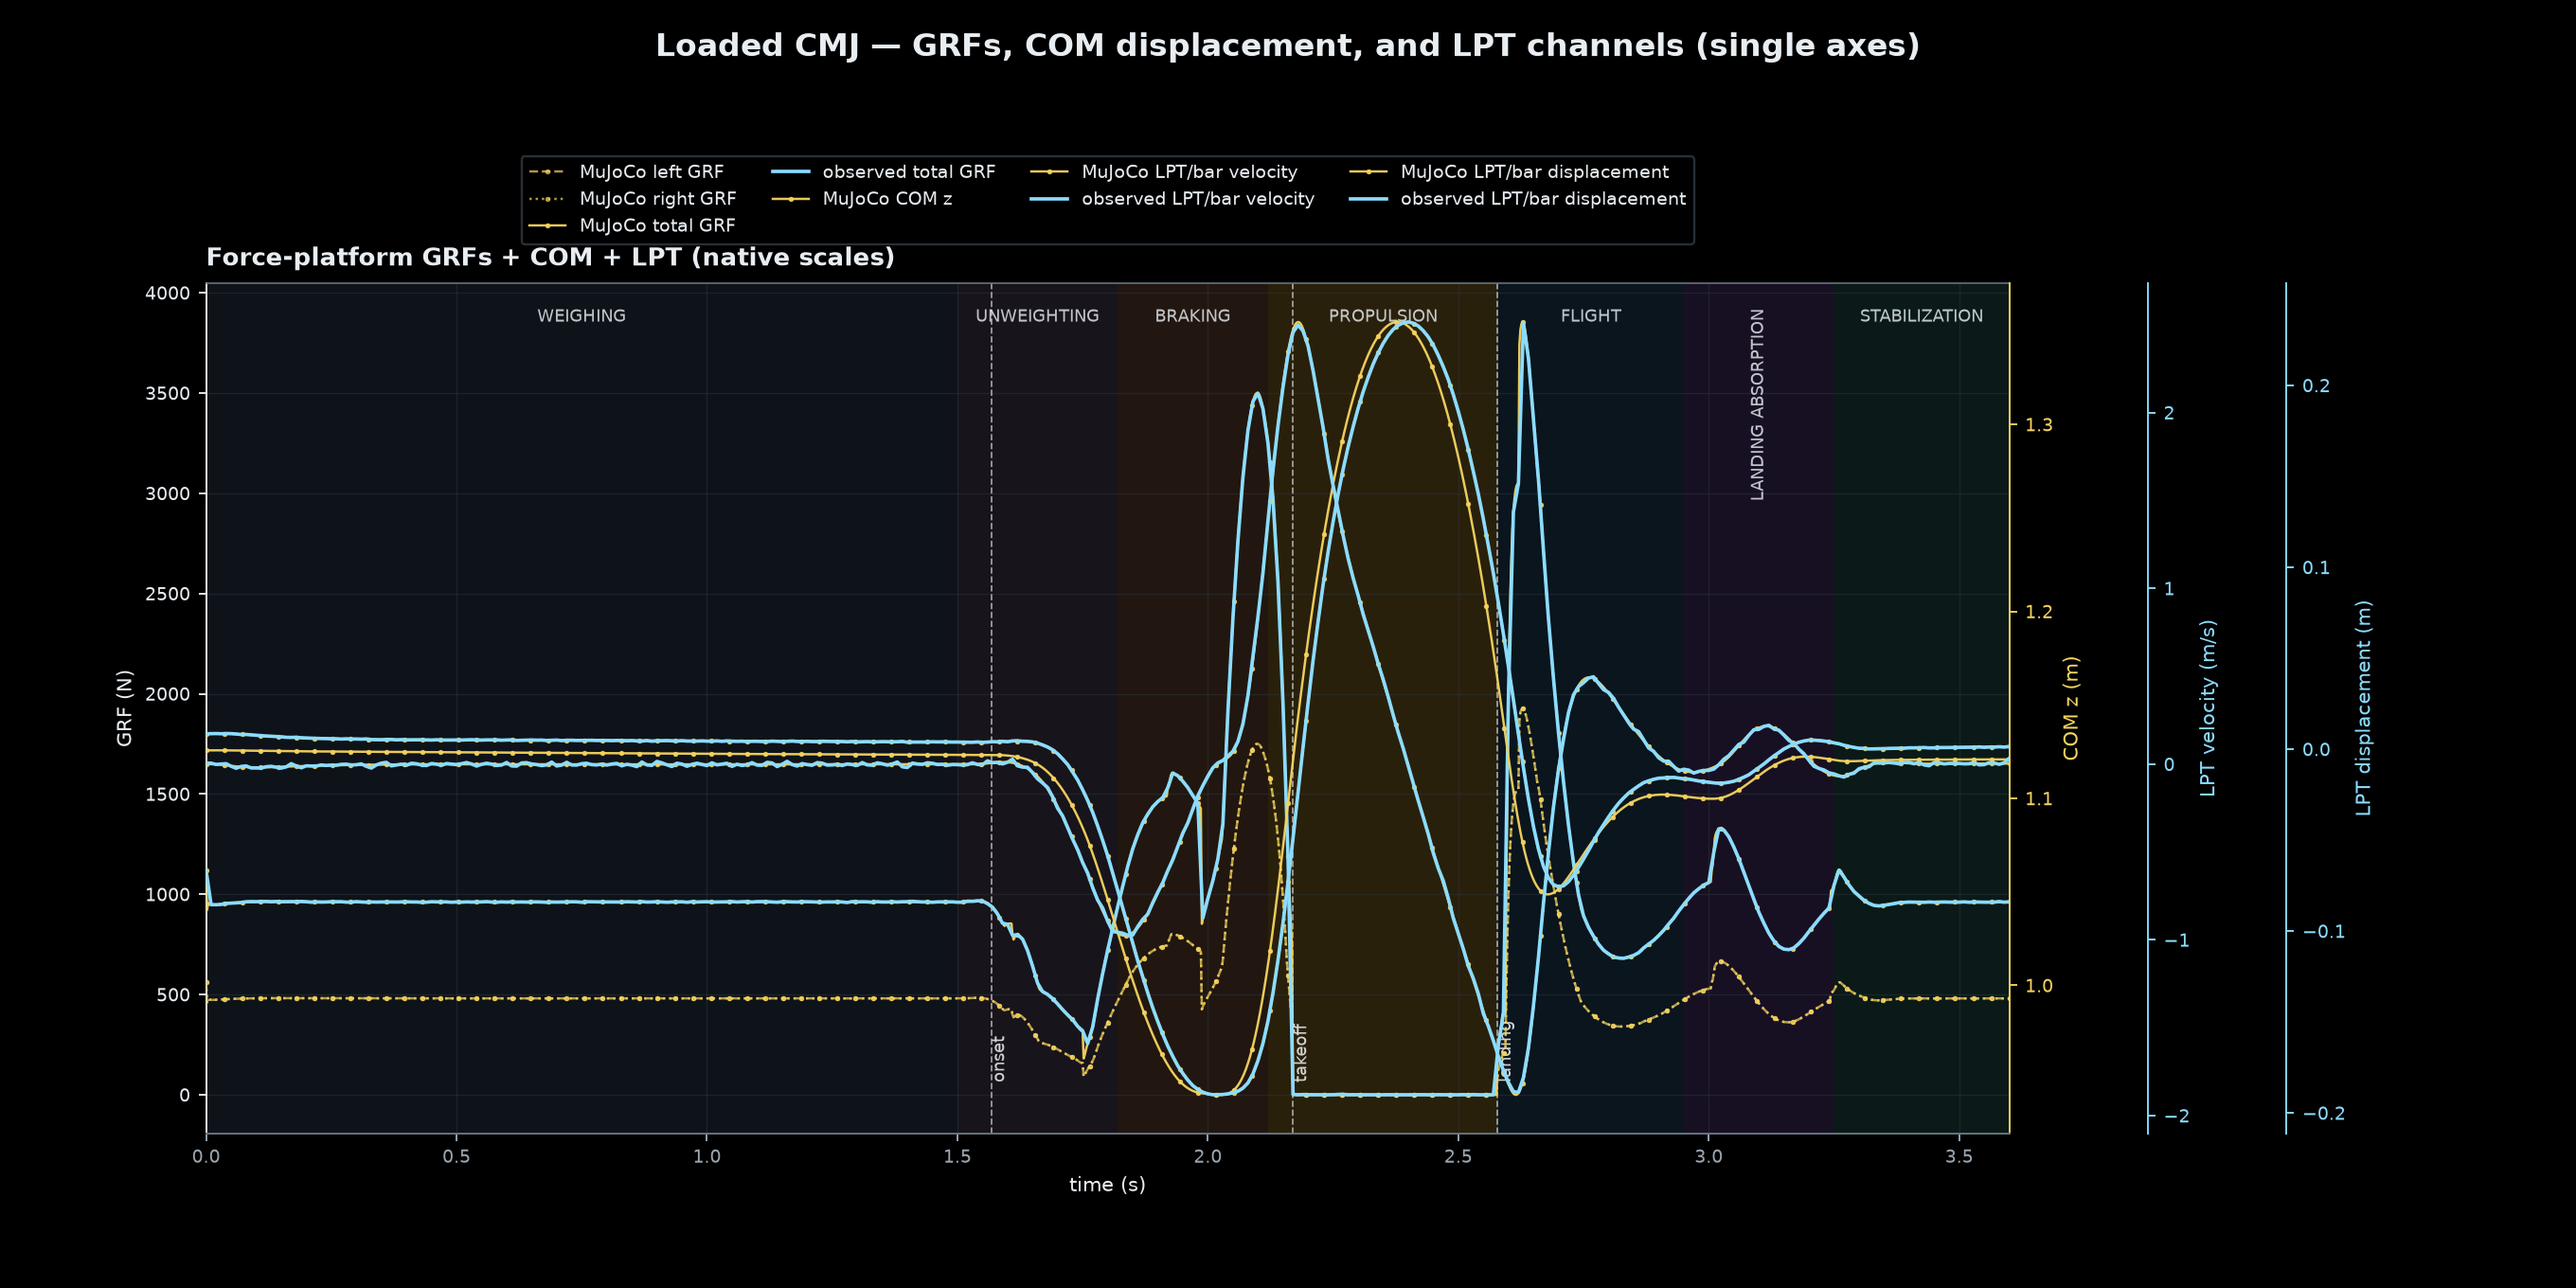
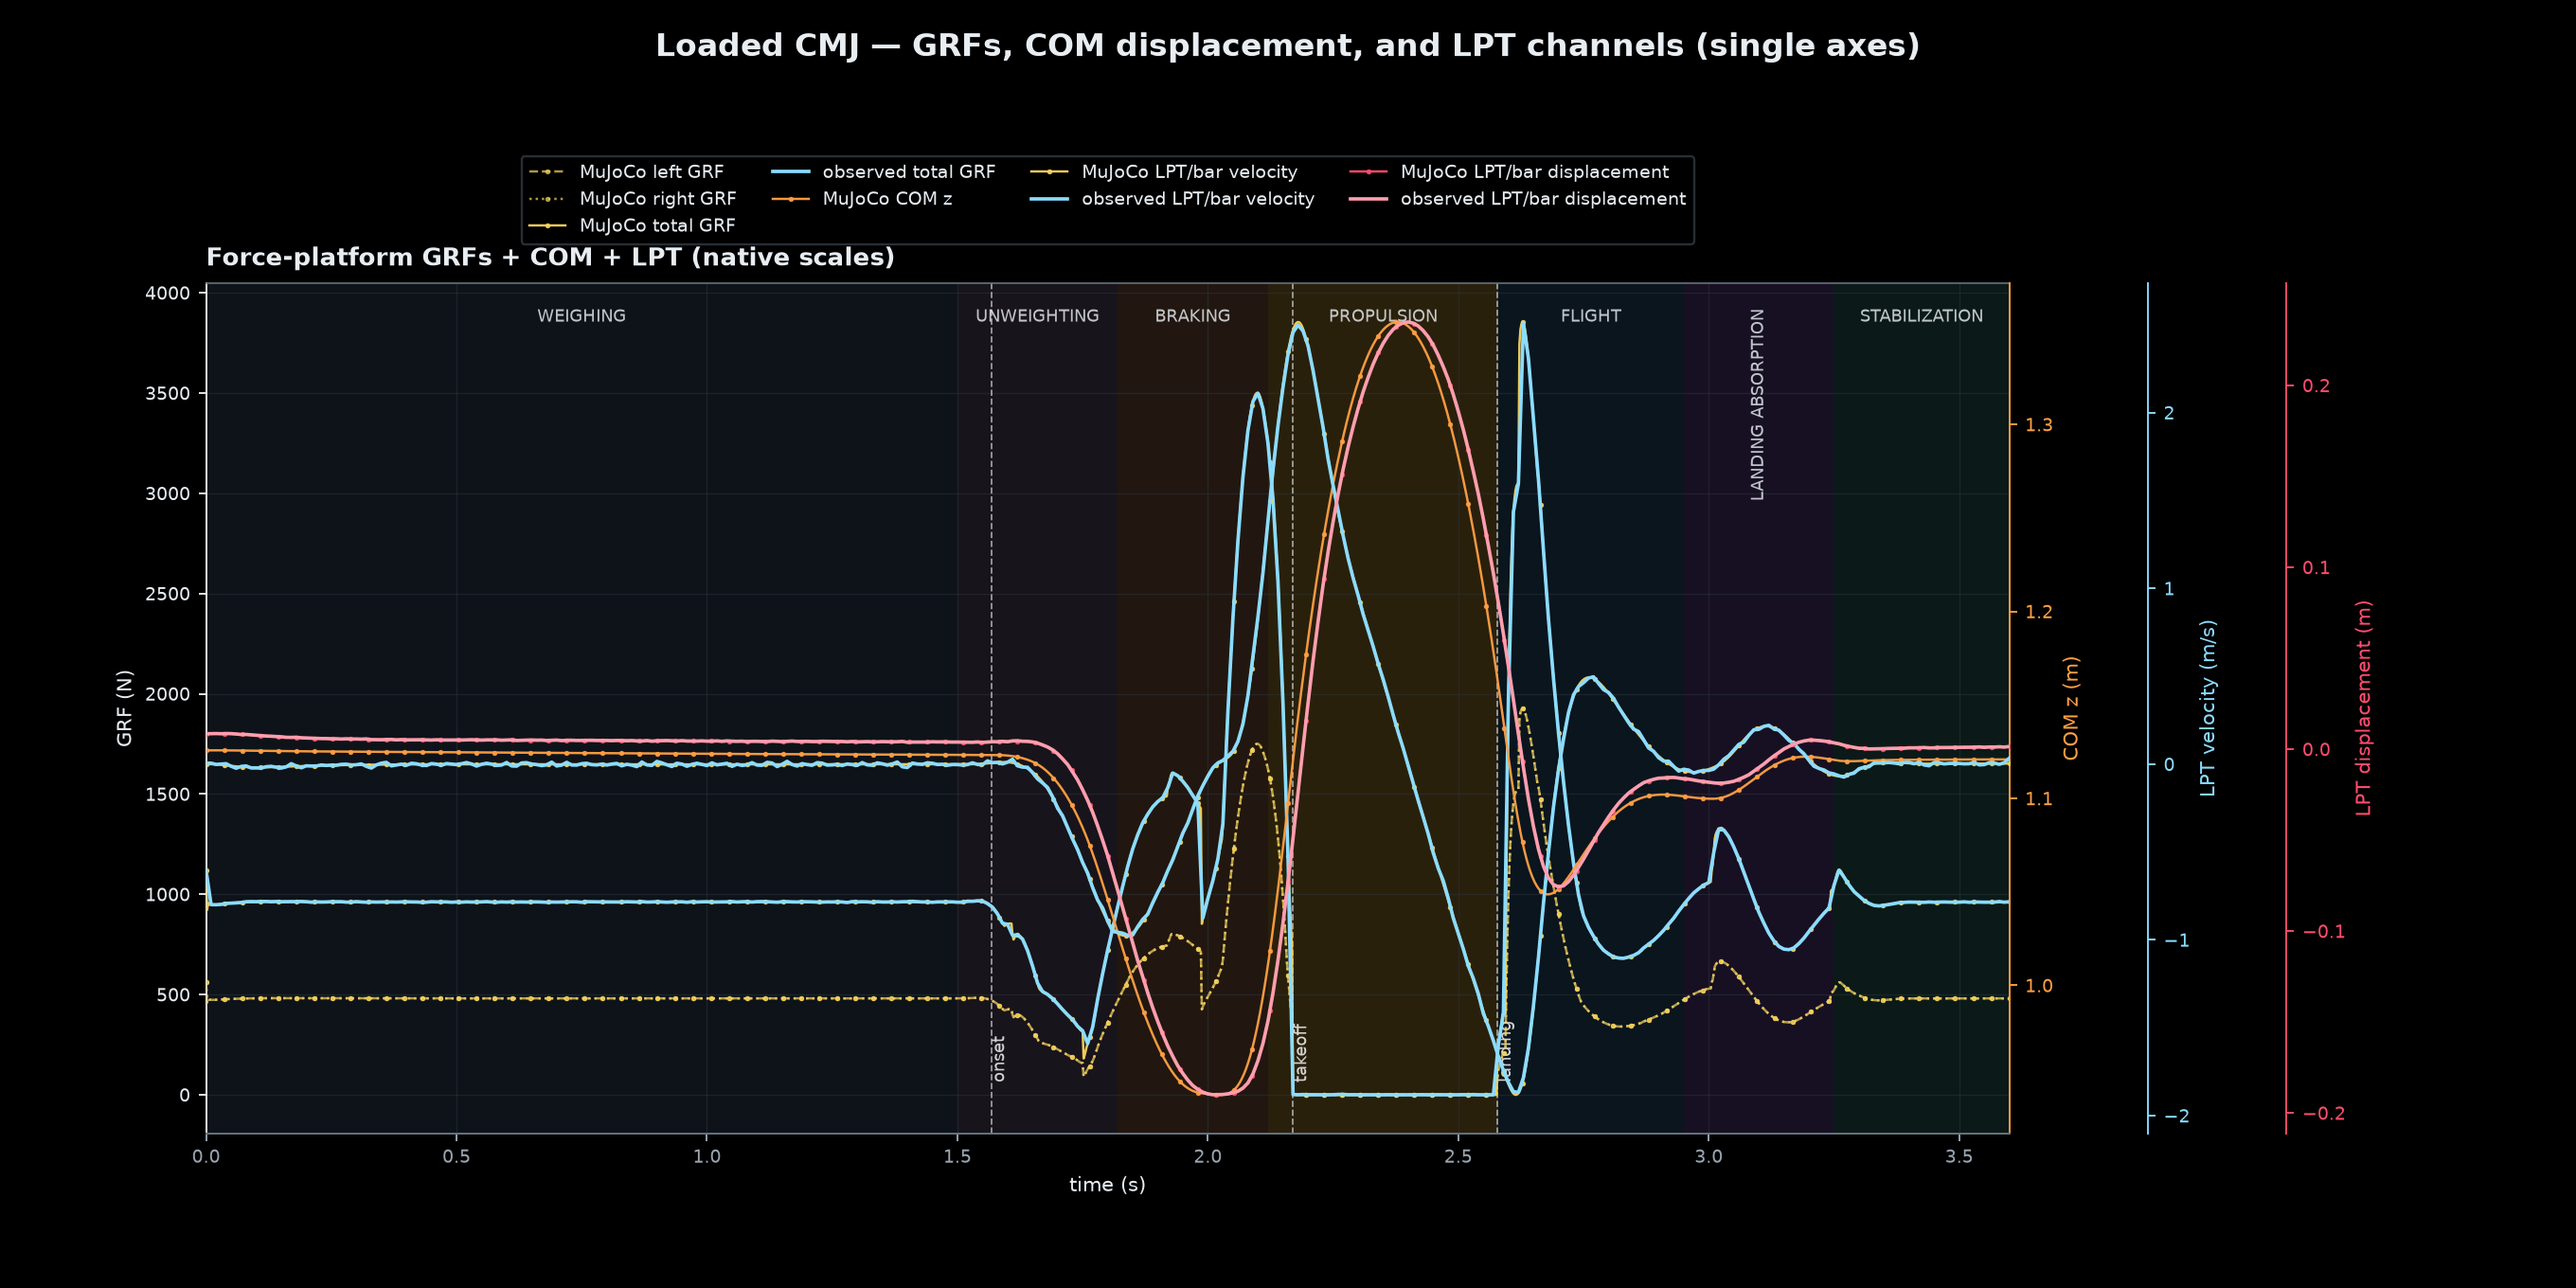
Differentiate COM and LPT displacement colors

diff --git a/examples/plot_observables.py b/examples/plot_observables.py
@@ -40,6 +40,9 @@ SPINE = "#65717d"
 OBSERVED = "#8bdcff"
 MUJOCO = "#f4d35e"
 MUJOCO_DIM = "#d9bb4b"
+COM_ORANGE = "#ff9f43"
+LPT_DISPLACEMENT_RED = "#ff4d6d"
+LPT_DISPLACEMENT_OBSERVED = "#ff9eae"
 EVENT = "#f2f2f2"
 PHASE_COLORS = (
     "#355070",  # weighing
@@ -125,6 +128,7 @@ def _plot_mujoco(
     linestyle: str = "-",
     alpha: float = 0.96,
     linewidth: float = 1.05,
+    color: str = MUJOCO,
 ) -> None:
     time = list(time_s)
     series = list(values)
@@ -134,14 +138,14 @@ def _plot_mujoco(
     ax.plot(
         time,
         series,
-        color=MUJOCO,
+        color=color,
         linestyle=linestyle,
         linewidth=linewidth,
         marker="o",
         markersize=2.0,
         markevery=markevery,
-        markerfacecolor=MUJOCO,
-        markeredgecolor=MUJOCO,
+        markerfacecolor=color,
+        markeredgecolor=color,
         markeredgewidth=0.25,
         alpha=alpha,
         label=label,
@@ -156,11 +160,12 @@ def _plot_observed(
     label: str,
     *,
     linewidth: float = 1.55,
+    color: str = OBSERVED,
 ) -> None:
     ax.plot(
         list(time_s),
         list(values),
-        color=OBSERVED,
+        color=color,
         linewidth=linewidth,
         linestyle="-",
         label=label,
@@ -332,17 +337,29 @@ def _combined_grf_com_lpt(result: dict[str, Any], observed: dict[str, Any]) -> N
     _plot_observed(host, observed_time, observed["fz_total_N"], "observed total GRF")
     _style_axis(host, "Force-platform GRFs + COM + LPT (native scales)", "GRF (N)")
 
-    _plot_mujoco(com_axis, time_s, traces["com_z_m"], "MuJoCo COM z")
+    _plot_mujoco(com_axis, time_s, traces["com_z_m"], "MuJoCo COM z", color=COM_ORANGE)
     _plot_mujoco(velocity_axis, time_s, traces["bar_velocity_m_s"], "MuJoCo LPT/bar velocity")
     _plot_observed(velocity_axis, observed_time, observed["bar_velocity_m_s"], "observed LPT/bar velocity")
-    _plot_mujoco(displacement_axis, time_s, traces["bar_displacement_m"], "MuJoCo LPT/bar displacement")
-    _plot_observed(displacement_axis, observed_time, observed["bar_displacement_m"], "observed LPT/bar displacement")
+    _plot_mujoco(
+        displacement_axis,
+        time_s,
+        traces["bar_displacement_m"],
+        "MuJoCo LPT/bar displacement",
+        color=LPT_DISPLACEMENT_RED,
+    )
+    _plot_observed(
+        displacement_axis,
+        observed_time,
+        observed["bar_displacement_m"],
+        "observed LPT/bar displacement",
+        color=LPT_DISPLACEMENT_OBSERVED,
+    )
 
     for axis, label, color in (
         (host, "GRF (N)", TEXT),
-        (com_axis, "COM z (m)", MUJOCO),
+        (com_axis, "COM z (m)", COM_ORANGE),
         (velocity_axis, "LPT velocity (m/s)", OBSERVED),
-        (displacement_axis, "LPT displacement (m)", OBSERVED),
+        (displacement_axis, "LPT displacement (m)", LPT_DISPLACEMENT_RED),
     ):
         axis.set_ylabel(label, color=color)
         axis.tick_params(axis="y", colors=color, labelsize=8)
